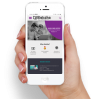
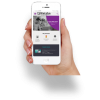
Login popup, category page added

diff --git a/custom.css b/custom.css
@@ -3,7 +3,7 @@
 body{
     font-family: 'Poppins', sans-serif !important;
 }
-::placeholder { 
+/* ::placeholder { 
     color: #CCC;
     opacity: 0.5;
   }
@@ -14,7 +14,7 @@ body{
   
   ::-ms-input-placeholder {
     color: #CCC;
-  }
+  } */
 
 .header .mid-bar.navbar-nav .row{
   width: 100%;
@@ -195,6 +195,12 @@ body{
     text-align: center;
     justify-content: space-between;
 }
+@media screen and (min-width:120px) and (max-width:768px) {
+    .ekaksha-row{
+        white-space: nowrap;
+        overflow-x: scroll;
+    }
+}
 .ekaksha-row .img-block{
     margin-bottom: 20px;
 }
@@ -206,6 +212,11 @@ body{
 }
 
 /* Onlien clases  */
+@media screen and (min-width:120px) and (max-width:768px) {
+.module-banners-132 .swiper-container{
+    overflow: visible !important;
+}
+}
 .module-banners-132 .swiper-button-prev{
     left: -70px;
 }
@@ -372,6 +383,11 @@ body{
 .module-info_blocks .module-body{
     justify-content: space-between;
 }
+@media screen and (min-width:120px) and (max-width:768px) {
+    .module-info_blocks .module-body{
+        flex-direction: column;
+    }
+}
 .module-info_blocks-291 .module-item-1 .info-block .info-block-title,
 .module-info_blocks-291 .module-item-2 .info-block .info-block-title,
 .module-info_blocks-291 .module-item-3 .info-block .info-block-title{
@@ -475,9 +491,9 @@ footer .block-content p{
     content: '';
     background: url(image/catalog/download-img.png) no-repeat center center;
     position: absolute;
-    top: -135px;
-    left: -70px;
-    z-index: 9;
+    top: -58px;
+    left: -50px;
+    z-index: 1;
 
 }
 
@@ -511,3 +527,189 @@ footer .block-content p{
         display: block;
     }
 } 
+
+
+footer{
+    position: relative;
+}
+footer>div{
+    position: relative;
+}
+footer>div:before{
+    content: '';
+    background: #812990;
+    width: 100%;
+    height: 58px;
+    position: absolute;
+    top: -50px;
+    left: -60%;
+    /* transform: translateX(-50%); */
+    z-index: -1;
+}
+footer>div:after{
+    content: '';
+    background: #812990;
+    width: 100%;
+    height: 58px;
+    position: absolute;
+    top: -50px;
+    right: -60%;
+    /* transform: translateX(-50%); */
+    z-index: -1;
+}
+footer::before{
+    content: '';
+    background: url(image/catalog/footer-top-bg.png) no-repeat center center;
+    width: 374px;
+    height: 58px;
+    position: absolute;
+    top: 10px;
+    left: 50%;
+    transform: translateX(-50%);
+}
+
+
+/* Login page  */
+.popup-login .popup-body{
+    border-radius: 10px;
+    width: 625px;
+    height: 505px;
+}
+.popup-login .popup-container{
+    width: 625px;
+}
+.popup-login .popup-inner-body{
+    height: auto;
+    max-height: 100%;
+}
+.popup-login .popup-inner-body .title{
+        font-size: 20px;
+        font-weight: 600;
+        color: #666666;
+}
+
+.forgot-password{
+    margin: 20px auto;
+    text-align: center;
+}
+.forgot-password a{
+    font-size: 13px;
+    color: #812990;
+    font-weight: 400;
+    text-decoration: underline;
+}
+.login-note{
+    margin: 22px 0px 0px 0px ;
+}
+.login-note p{
+    text-align: center;
+    color: #999;
+    font-size: 11px;
+    font-weight: 400;
+}
+/* Login page tabs styles  */
+.login-tab-wrapper{
+    display:flex;
+    flex-direction: column;
+    align-items: center;
+  }
+  .login-tab-wrapper .tabs{
+    border: 1px #ccc solid;
+    border-radius: 5px;
+    display: flex;
+    width: 330px;
+  }
+  .login-tab-wrapper .tab{
+    cursor: pointer;
+    padding:10px 20px;
+    /* margin:0px 2px; */
+    /* border-radius: 5px; */
+    /* background:#cccccc; */
+    display:flex;
+    width: 100%;
+    background:#fff;
+    color:#f7902c;
+    justify-content: center;
+    margin-bottom: 0;
+  }
+  .login-tab-wrapper .panels{
+    background:#fffffff6;
+    /* box-shadow: 0 2rem 2rem #00000080; */
+    min-height:200px;
+    width:100%;
+    max-width:330px;
+    margin-top: 40px;
+    /* border-radius:3px; */
+    overflow:hidden;
+    /* padding:20px;   */
+  }
+  .login-tab-wrapper .panel{
+    display:none;
+    animation: fadein .8s;
+  }
+  @keyframes fadein {
+      from {
+          opacity:0;
+      }
+      to {
+          opacity:1;
+      }
+  }
+  .login-tab-wrapper .panel-title{
+    font-size:1.5em;
+    font-weight:bold
+  }
+  .login-tab-wrapper .radio{
+    display:none;
+  }
+  #parent:checked ~ .panels #parent-panel,
+  #student:checked ~ .panels #student-panel{
+    display:block
+  }
+  #parent:checked ~ .tabs #parent-tab,
+  #student:checked ~ .tabs #student-tab{
+    background:#f7902c;
+    color:#fff;
+    
+  }
+  
+  #parent:checked ~ .tabs #parent-tab,
+  #parent:not(:checked) ~ .tabs #parent-tab{
+      border-top-left-radius: 5px;
+      border-bottom-left-radius: 5px;
+  }
+  #student:checked ~ .tabs #student-tab,
+  #student:not(:checked) ~ .tabs #student-tab{
+      border-top-right-radius: 5px;
+      border-bottom-right-radius: 5px;
+  }
+
+  .breadcrumb + .page-title{
+    display: none;
+    visibility: hidden;
+  }
+  .main-products.product-grid .product-layout:not(.swiper-slide){
+      padding: 0px;
+  }
+  .category-description{
+      margin: 0px -10px 30px; 
+    }
+  
+  .category-description .category-text > p:last-of-type{
+      font-size: 22px;
+      font-weight: 600;
+      color: #333;
+  }
+
+
+  .main-products.product-grid .product-thumb .btn-quickview.btn,
+  .main-products.product-grid .product-thumb .btn-quickview.btn:hover{
+    background: none !important;
+    height: auto;
+  }
+  .main-products.product-grid .product-thumb .btn-quickview::before{
+    font-size: 0px;
+    background: url(image/catalog/icon-video.png) no-repeat center center;
+    width: 50px;
+    height: 50px;   
+  }

diff --git a/catalog/language/en-gb/account/login.php b/catalog/language/en-gb/account/login.php
@@ -6,17 +6,24 @@ $_['heading_title']                = 'Account Login';
 $_['text_account']                 = 'Account';
 $_['text_login']                   = 'Login';
 $_['text_new_customer']            = 'New Customer';
-$_['text_register']                = 'Register Account';
+$_['text_register']                = 'Register';
 $_['text_register_account']        = 'By creating an account you will be able to shop faster, be up to date on an order\'s status, and keep track of the orders you have previously made.';
-$_['text_returning_customer']      = 'Returning Customer';
+$_['text_returning_customer']      = 'Join ekaksha as a';
 $_['text_i_am_returning_customer'] = 'I am a returning customer';
 $_['text_forgotten']               = 'Forgotten Password';
 
 // Entry
-$_['entry_email']                  = 'E-Mail Address';
+$_['entry_email']                  = 'Username';
 $_['entry_password']               = 'Password';
 
 // Error
 $_['error_login']                  = 'Warning: No match for E-Mail Address and/or Password.';
 $_['error_attempts']               = 'Warning: Your account has exceeded allowed number of login attempts. Please try again in 1 hour.';
 $_['error_approved']               = 'Warning: Your account requires approval before you can login.';
+
+
+$_['entry_phone']               = "Phone Number";
+$_['entry_otp']                 = "OTP";
+$_['text_submit']               = 'Submit';
+$_['text_resend']               = 'Resend OTP';
+

diff --git a/catalog/language/en-gb/affiliate/login.php b/catalog/language/en-gb/affiliate/login.php
@@ -20,3 +20,10 @@ $_['entry_password']                = 'Password';
 $_['error_login']                   = 'Warning: No match for E-Mail Address and/or Password.';
 $_['error_attempts']                = 'Warning: Your account has exceeded allowed number of login attempts. Please try again in 1 hour.';
 $_['error_approved']                = 'Warning: Your account requires approval before you can login.';
+
+
+
+// As per Ekaksha Design
+// Entry
+$_['entry_email']                   = 'username';
+$_['entry_password']                = 'Password';
